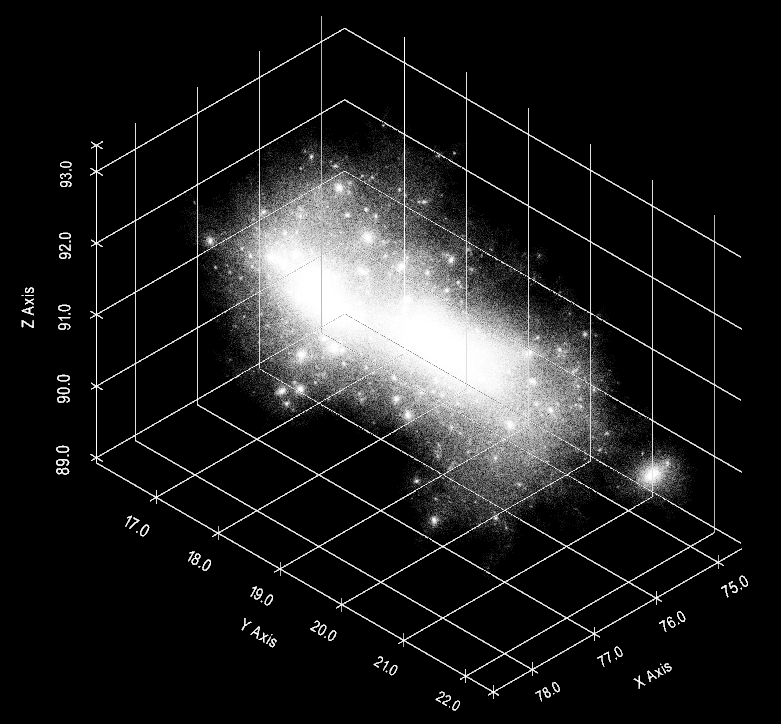
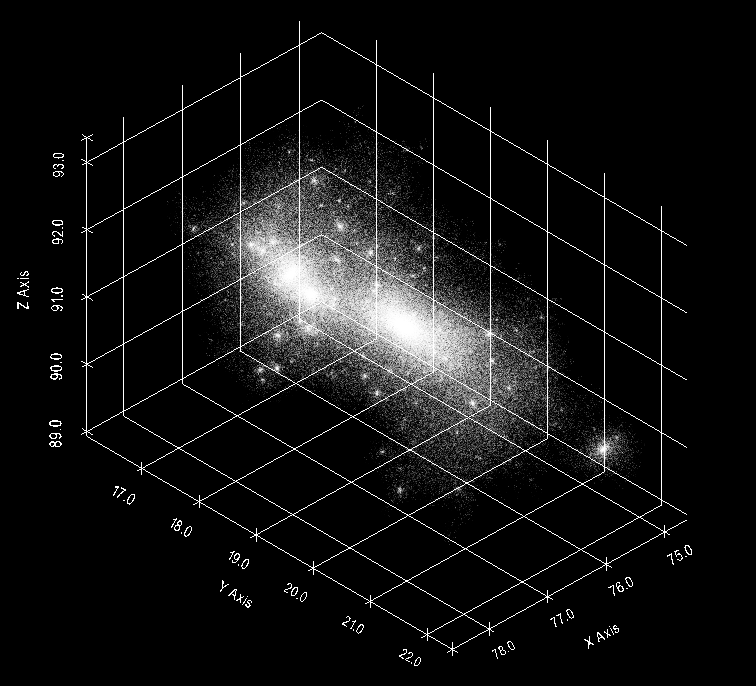
improve point cloud guide

diff --git a/layouts/shortcodes/video.html b/layouts/shortcodes/video.html
@@ -1,5 +1,5 @@
 <figure>
-    <video {{if .Get "loop"}} autoplay loop {{else}} preload="metadata"{{ end }}muted controls playsinline>
+    <video {{if .Get "loop"}}loop{{else}}{{ end }} {{if .Get "autoplay"}}autoplay preload="metadata"{{else}}{{ end }}muted controls playsinline>
         {{ with .Page.Resources.GetMatch (printf "*%s*" (.Get "src_webm")) }}
         <source src="{{ .Permalink }}" type="video/webm; codecs=vp9">
         {{ end }}

diff --git a/content/guide/visualizing-pointclouds/index.md b/content/guide/visualizing-pointclouds/index.md
@@ -1,7 +1,7 @@
 ---
 title: "Visualizing Point Clouds"
 date: 2022-05-16
-categories: 
+categories:
   - astrophysics
   - data visualisation
 author: Lukas Winkler
@@ -29,7 +29,6 @@ To now draw points for all particles, we go back to the default RenderView and s
 
 If you don't see any points, check if you have focused the RenderView and the eye symbol in the Pipeline Browser is enabled. If the particles are not centered or very small (e.g. because of accidentally plotting the particle ID as a dimension before), one can open the "Adjust Camera" menu of the RenderView and select a Standard Viewpoint.
 
-
 {{<image src="cloud1.png" >}}
 
 If your dataset has an additional column, you can color the points according to it by selecting it in the "Coloring" section. The used colormap can be edited to e.g. use logarithmic values.
@@ -40,9 +39,7 @@ As a next step, reducing the opacity allows us to better see the distribution of
 
 Still areas with high density are just white blobs and the level of detail depends on the zoom level as the size of the points is always the same.
 
-
-{{<video src_webm="video1.webm" src_mp4="video1.mp4" loop="true" >}}
-
+{{<video src_webm="video1.webm" src_mp4="video1.mp4" loop="true" autoplay="true" >}}
 
 One solution to this problem is to use Point Gaussians instead of points to represent every particle. For this select "Point Gaussian" from the "Representation" drop-down. In the new "Point Gaussian" you can then change the shader preset. While "Sphere" might work with a small amount of large masses, representing them as a "Gaussian Blur" works best for large amounts of particles.
 
@@ -52,25 +49,21 @@ If you see triangle-like structures, try changing the opacity. Once again we nee
 
 {{<image src="cloud4.png" >}}
 
+{{<video src_webm="video2.webm" src_mp4="video2.mp4" loop="true" autoplay="true" >}}
 
-{{<video src_webm="video2.webm" src_mp4="video2.mp4" loop="true" >}}
-
-
-{{<video src_webm="video3.webm" src_mp4="video3.mp4" loop="true" >}}
+{{<video src_webm="video3.webm" src_mp4="video3.mp4" loop="true" autoplay="true" >}}
 
 ## In Python
 
 While Paraview is very powerful, often it is useful to display a subset of data automatically during data analysis without needing to export and open the dataset every time. Therefore, it is useful to create the same visualisation in Python.
 
-For this we are using [vtk](https://vtk.org/) which Paraview is based on. As the [Python VTK wrapper](https://vtk.org/doc/nightly/html/md__builds_gitlab_kitware_sciviz_ci_Documentation_Doxygen_PythonWrappers.html) is not always very user-friendly, the best solution is [pyvista](pyvista.org), which abstracts many of [these details](https://docs.pyvista.org/examples/00-load/create-point-cloud.html) away.
+For this we are using [vtk](https://vtk.org/) which Paraview is based on. As the [Python VTK wrapper](https://vtk.org/doc/nightly/html/md__builds_gitlab_kitware_sciviz_ci_Documentation_Doxygen_PythonWrappers.html) is not always very user-friendly, the best solution is [pyvista](pyvista.org), which abstracts many of [these details](https://docs.pyvista.org/version/stable/examples/02-plot/point-clouds.html) away.
 
 ```bash
 ➜ pip install pyvista
-# if you are using python3.10, you might need to read
-# https://github.com/pyvista/pyvista/discussions/2064
 ```
 
-Let's assume `data` is a numpy array with three columns corresponding to the position of the particles (similar to the output of `np.random.random((1000, 3))`).
+Let's assume `data` is a numpy array with three columns corresponding to the position of the particles (similar to the output of `np.random.random((10000, 3))`).
 
 Then we can initialize a pyvista Plotter like this:
 
@@ -89,6 +82,7 @@ pdata = pyvista.PointSet(data)
 ```
 
 Then we can plot the data:
+
 ```python
 pl.add_mesh(
     pdata,
@@ -100,18 +94,36 @@ pl.add_mesh(
 )
 pl.enable_parallel_projection()
 ```
+
 Instead of specifying `style="points"` explicitly, we could also use `pl.add_points()` directly.
 Once again `point_size` and `opacity` can be adapted to the dataset.
 
-Finally, we can open the window using 
+Finally, we can open the window using
+
 ```
 pl.show()
 ```
 
-
 {{<image src="pyvista1.png" >}}
 
+Unlike the paraview visualisation, here we for now only show each dataset as an individual dot. But just like the "Point Gaussians" setting in Paraview, we can change the visualisation to instead show every datapoint as a gaussian blur, [thanks to the pyvista developers](https://github.com/pyvista/pyvista/discussions/2576).
+
+```python
+pl.add_mesh(
+    pdata,
+    point_size=0.2,
+    style="points_gaussian",
+    render_points_as_spheres=False,
+    emissive=False,
+    opacity=0.2,
+    color="white",
+)
+```
+
+https://docs.pyvista.org/version/stable/examples/02-plot/point-clouds.html
+
 If we know the center of the object, we can manually specify it using
+
 ```python
 pl.set_focus((halo.X, halo.Y, halo.Z))
 ```
@@ -125,6 +137,7 @@ pl.show_grid()
 {{<image src="pyvista2.png" >}}
 
 And optionally the output can be rendered in 3d:
+
 ```python
 pl.enable_stereo_render()
 # use one of the many SetStereoTypeTo*() functions
@@ -132,48 +145,103 @@ pl.ren_win.SetStereoTypeToSplitViewportHorizontal()
 pl.ren_win.SetStereoTypeToAnaglyph()
 ```
 
-A regular graphics card should be able to display millions of points in real-time without dropping any frames. 
+If you prefer different mouse-controls where the negative z-axis always points down, you might want to enable terrain style:
+
+```python
+pl.enable_terrain_style()
+```
+
+A regular graphics card should be able to display millions of points in real-time.
 
 {{<video src_webm="video4.webm" src_mp4="video4.mp4" loop="true" >}}
 
+Even with 512^3 particles the visualisation is still very interactive:
 
-The major limitation of this visualisation is that it doesn't seem possible to use Point Gaussians as above using Paraview. You can read more about this [here](https://github.com/pyvista/pyvista/discussions/2576).
+{{<video src_webm="video5.webm" src_mp4="video5.mp4" loop="true" >}}
+
+### Videos in Python
+
+While pyvista supports creating simple MP4 videos [out of the box](https://docs.pyvista.org/version/stable/examples/02-plot/movie.html), we can also do more complex automation of screenshots and camera:
+
+```python
+pl = Plotter(window_size=[800, 800])
+pl.ren_win.OffScreenRenderingOn() #  optional, needed if the window_size is larger than the screen resolution
+pl.show(auto_close=False, interactive=False)
+
+# orbit around center
+path = pl.generate_orbital_path(n_points=250, shift=150, factor=2, viewup=[0, 0, 1])
+global_i = 0
+for i, point in enumerate(path.points):
+    pl.set_position(point, render=False)
+    pl.set_focus(pl.center, render=False)
+    pl.render()
+    pl.screenshot(f"/tmp/images/test_{global_i:04d}.png")
+    global_i += 1
+start_pos = np.array(path.points[0])
+
+# very simple zoom
+end_pos = np.array([50, 50, 50])
+diff_vec = end_pos - start_pos
+for i in range(250):
+    pl.set_position(start_pos + diff_vec * i / 250, render=False)
+    pl.set_focus(end_pos, render=False)
+    pl.render()
+    pl.screenshot(f"/tmp/images/test_{global_i:04d}.png")
+    global_i += 1
+for i in range(125):
+    pl.set_position(end_pos - diff_vec * i / 125, render=False)
+    pl.set_focus(end_pos, render=False)
+    pl.render()
+    pl.screenshot(f"/tmp/images/test_{global_i:04d}.png")
+    global_i += 1
+pl.close()
+```
+
+Unfortunately a large amount of particles causes fine-grained "random" noise in the image which compresses extremly badly in videos.
+
+{{<video src_webm="video6.webm" src_mp4="video6.mp4" loop="true" >}}
 
 
 ## Bonus: Exporting Videos for Publication
-{{<video src_webm="high_res1.webm" src_mp4="high_res1.mp4"  >}}
-{{<video src_webm="high_res2.webm" src_mp4="high_res2.mp4"  >}}
 
+{{<video src_webm="high_res1.webm" src_mp4="high_res1.mp4"  >}}
+{{<video src_webm="high_res2.webm" src_mp4="high_res2.mp4" loop="true" >}}
 
 Exporting Videos in Paraview and similar tools is rather easy, but the options are often quite limited and only support older formats and codecs. Therefore, the resulting videos can often be quite large and in low quality which is especially bad for point clouds where a lot of fine details can be lost in video compression.
 
 Because of this it is often useful to export the video as a collection of (losslessly compressed) PNG files and [encode the video](https://gist.github.com/Vestride/278e13915894821e1d6f) yourself.
 
-The following options are optimized for a high quality while still having a small file size, which means they can be slow to encode. But as most videos are rather short, this should not be that important. Also, the videos on this page are compressed more to keep the loading time small while loosing only little quality.
+The following options are optimized for a high quality while still having a small file size, which means they can be slow to encode. But as most videos are rather short, this should not be that important. Also, the videos embedded in this page are compressed more to keep the loading time small while loosing only little quality.
 
 ### VP9
 
-[VP9](https://en.wikipedia.org/wiki/VP9) is a widely supported modern video codec. 
+[VP9](https://en.wikipedia.org/wiki/VP9) is a widely supported modern video codec.
 
 For the best results a two-pass encoding is used with the first command saving a temporary file and the second command actually encoding the file.
 
 ```bash
-➜ ffmpeg -framerate 30 -i img.%04d.png -c:v libvpx-vp9 -pass 1 -b:v 3M  -speed 4 -tile-columns 6 -frame-parallel 1 -an -pix_fmt yuv420p -f webm -y /dev/null
+➜ ffmpeg -framerate 30 -i img.%04d.png -c:v libvpx-vp9 -pass 1 -crf 35 -b:v 5M -deadline good -cpu-used 0 -row-mt -tile-columns 3 -frame-parallel 1 -an -pix_fmt yuv420p -f webm -y /dev/null
 ```
+
 ```bash
-➜ ffmpeg -framerate 30 -i img.%04d.png -c:v libvpx-vp9 -pass 2 -b:v 3M  -speed 1 -tile-columns 6 -frame-parallel 1 -auto-alt-ref 1 -lag-in-frames 25 -pix_fmt yuv420p -f webm -y out.webm
+➜ ffmpeg -framerate 30 -i img.%04d.png -c:v libvpx-vp9 -pass 2 -crf 35 -b:v 5M -deadline good -cpu-used 0 -row-mt -tile-columns 3 -frame-parallel 1 -auto-alt-ref 1 -lag-in-frames 25 -pix_fmt yuv420p -f webm -y out.webm
 ```
 
 Important options:
+
 - `-framerate`: set to the amount of frames per second
 - `-i img.%04d.png`: this assumes the images are called `img.0001.png`
-- `-b:v 3M`: this is the main parameter to change to influence the file size and quality. It specifies the bitrate (so 3 MB/s here). Simple videos might already look great with 1 MB/s while videos with a lot of moving small parts might need a lot more here. Alternatively you can specify a CRF as explained below with `-crf` (a value around 10 might be a good start). 
+- `-crf 35`: the Constant Rate Factor describing the quality of the output. It can be a value from 0 to 63 with lover values indicating a higher quality. In general recommended values range from 15 to 35, but for complex videos a higher value might be needed to not create huge files.
+- `-b:v 5M`: Optionally, in addition to `-crf` one can also set a constraint on the maximum bitrate (so 5 Mbit/s here) to limit the file size.
 - `-pix_fmt yuv420p`: [chroma subsampling](https://en.wikipedia.org/wiki/Chroma_subsampling) for compression and support in browsers
 - `-y`: answer "yes" when asked to overwrite existing files
 - `out.webm` use WebM as a container format for the output file
 
+If the input is an existing video file instead of a list of images, replace `-framerate 30 -i img.%04d.png` with `-i input.mp4`.
 
-You might also want to add [`-row-mt 1`](https://groups.google.com/a/webmproject.org/g/codec-devel/c/oiHjgEdii2U) for more parallelisation if you have many CPU cores.
+Additional options:
+
+- `-an`: remove an audio stream from the input video
 
 More information about the options can be found [here](https://sites.google.com/a/webmproject.org/wiki/ffmpeg/vp9-encoding-guide).
 
@@ -181,8 +249,8 @@ More information about the options can be found [here](https://sites.google.com/
 
 Some browsers don't support VP9 yet (most notably Safari), so a fallback to MP4 might be useful as it is supported on most devices:
 
-Here, instead of constraining the bitrate, we use a Constant Rate Factor (CRF) to specify the quality. 
-It can go from 0 to 51 with a lower value indicating a higher quality. Values around 20 might be a good starting range. 
+Here, we also use a Constant Rate Factor (CRF) to specify the quality.
+It can go from 0 to 51 with a lower value indicating a higher quality. Values around 20 might be a good starting range.
 
 ```bash
 ➜ ffmpeg -framerate 30 -i img.%04d.png -vcodec h264 -b:v 1M -strict -2 -pix_fmt yuv420p -preset veryslow -crf 20 -movflags +faststart -y out.mp4
@@ -193,7 +261,9 @@ It can go from 0 to 51 with a lower value indicating a higher quality. Values ar
 You can use the `<video>` tag to embed videos in websites.
 
 For gif-like looping videos:
+
 ```html
+
 <video autoplay loop muted controls playsinline>
     <source src="video.webm" type="video/webm; codecs=vp9">
     <source src="video.mp4" type="video/mp4">
@@ -201,7 +271,9 @@ For gif-like looping videos:
 ```
 
 For regular videos (only load the metadata/thumbnail until pressing play):
+
 ```html
+
 <video preload="metadata" muted controls playsinline>
     <source src="video.webm" type="video/webm; codecs=vp9">
     <source src="video.mp4" type="video/mp4">
